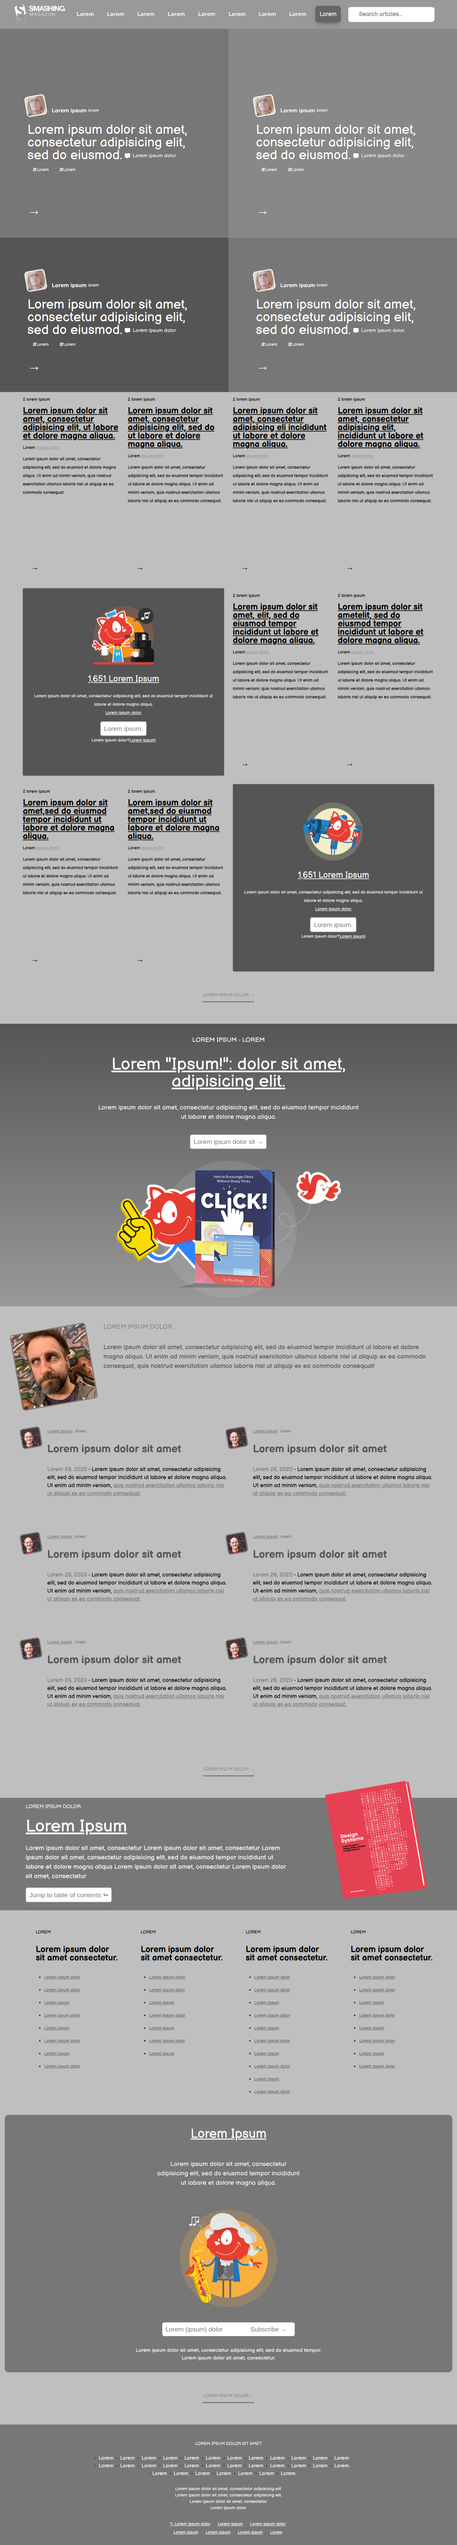
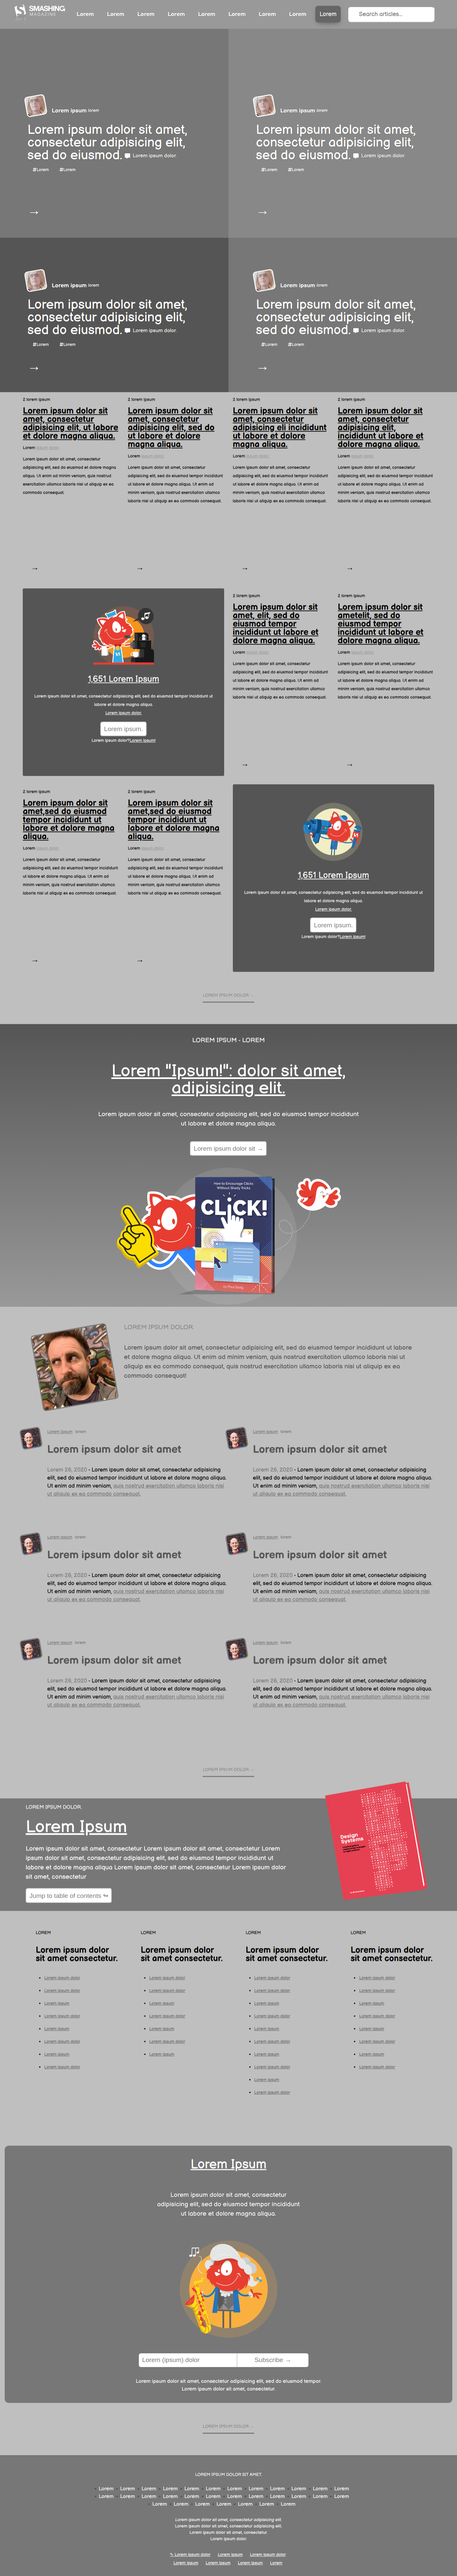
fixed readme file and new screenshot

Changed region(s): [[0.0, 0.0935, 1.0, 0.9974], [0.5534, 0.0312, 0.8917, 0.0623], [0.0615, 0.0312, 0.3997, 0.0623]]

diff --git a/README.md b/README.md
@@ -1,6 +1,6 @@
 # Project Name
 
-> OThis project consists of building a heatmap of the [Smashing magazine] (https://www.smashingmagazine.com/) website
+> This project consists of building a heatmap of the [Smashing magazine] (https://www.smashingmagazine.com/) website
 
 ![screenshot](./app_screenshot.png)
 
